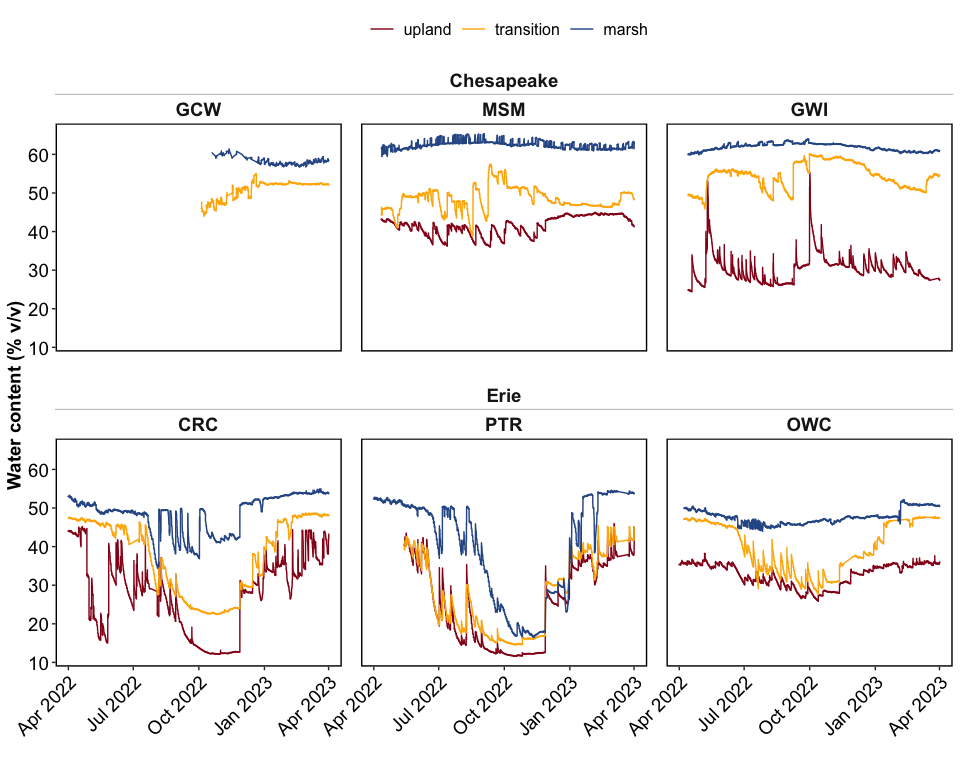
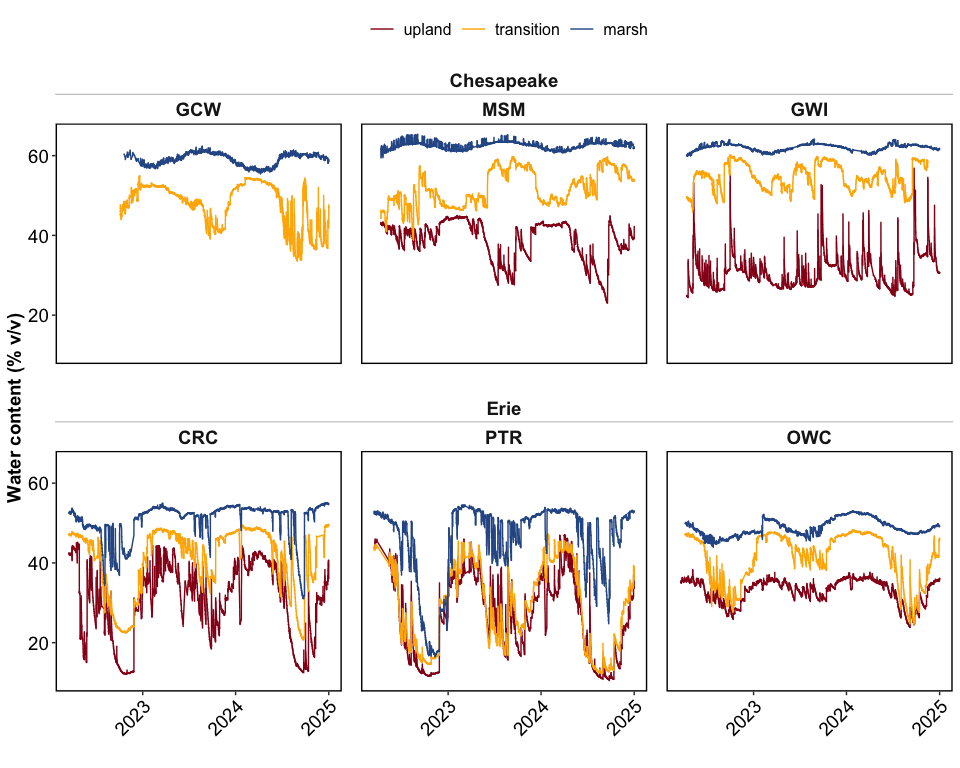
update sensor graphs

diff --git a/3-reports/manuscript_figures.md b/3-reports/manuscript_figures.md
@@ -147,72 +147,96 @@ available on Google Drive (access needed).
 
 ### Soil water content for 2022-23
 
+    ## [1] "2022-24"
+
 ![](manuscript_figures_files/figure-gfm/gg_vwc-1.png)<!-- -->
+
+    ## [1] "Jan-Dec 2023"
+
+![](manuscript_figures_files/figure-gfm/gg_vwc-2.png)<!-- -->
 
 ### Summarized soil water content
 
 | region     | site | transect   | mean_vwc | sd_vwc | median_vwc |
 |:-----------|:-----|:-----------|---------:|-------:|-----------:|
-| Erie       | CRC  | upland     |    27.31 |   9.90 |      28.53 |
-| Erie       | CRC  | transition |    37.15 |   9.74 |      40.66 |
-| Erie       | CRC  | marsh      |    48.33 |   4.94 |      49.43 |
-| Erie       | PTR  | upland     |    24.81 |  10.44 |      25.35 |
-| Erie       | PTR  | transition |    27.49 |   9.97 |      27.90 |
-| Erie       | PTR  | marsh      |    39.09 |  13.14 |      43.38 |
-| Erie       | OWC  | upland     |    32.74 |   2.96 |      33.66 |
-| Erie       | OWC  | transition |    39.47 |   6.48 |      38.67 |
-| Erie       | OWC  | marsh      |    47.66 |   1.86 |      47.53 |
-| Chesapeake | GCW  | transition |    50.89 |   2.57 |      52.22 |
-| Chesapeake | GCW  | marsh      |    57.96 |   0.79 |      57.79 |
-| Chesapeake | MSM  | upland     |    41.57 |   2.40 |      41.65 |
-| Chesapeake | MSM  | transition |    48.43 |   2.98 |      47.93 |
-| Chesapeake | MSM  | marsh      |    62.49 |   1.01 |      62.46 |
-| Chesapeake | GWI  | upland     |    30.41 |   3.67 |      30.12 |
-| Chesapeake | GWI  | transition |    54.47 |   3.36 |      54.77 |
-| Chesapeake | GWI  | marsh      |    61.86 |   0.94 |      62.06 |
+| Erie       | CRC  | upland     |    33.14 |   5.82 |      33.97 |
+| Erie       | CRC  | transition |    44.25 |   4.18 |      46.05 |
+| Erie       | CRC  | marsh      |    52.61 |   1.79 |      53.07 |
+| Erie       | PTR  | upland     |    29.79 |   6.92 |      30.72 |
+| Erie       | PTR  | transition |    31.53 |   7.58 |      31.48 |
+| Erie       | PTR  | marsh      |    49.54 |   4.25 |      51.10 |
+| Erie       | OWC  | upland     |    34.01 |   1.59 |      34.34 |
+| Erie       | OWC  | transition |    44.08 |   2.79 |      44.57 |
+| Erie       | OWC  | marsh      |    49.25 |   1.78 |      49.16 |
+| Chesapeake | GCW  | transition |    48.29 |   3.90 |      49.05 |
+| Chesapeake | GCW  | marsh      |    59.52 |   1.32 |      59.61 |
+| Chesapeake | MSM  | upland     |    38.46 |   5.47 |      40.50 |
+| Chesapeake | MSM  | transition |    52.90 |   4.65 |      54.83 |
+| Chesapeake | MSM  | marsh      |    62.78 |   0.79 |      62.88 |
+| Chesapeake | GWI  | upland     |    30.26 |   3.36 |      29.50 |
+| Chesapeake | GWI  | transition |    55.01 |   2.97 |      54.82 |
+| Chesapeake | GWI  | marsh      |    61.97 |   0.89 |      62.17 |
 
 ### Water level in soil
 
 When water level is positive (above surface), it means the soil is
 flooded.
 
+    ## [1] "2022-24"
+
 ![](manuscript_figures_files/figure-gfm/gg_water_level-1.png)<!-- -->
+
+    ## [1] "Jan-Dec 2023"
+
+![](manuscript_figures_files/figure-gfm/gg_water_level-2.png)<!-- -->
 
 ### Water table summary
 
+    ## [1] "Jan-Dec 2023"
+
 | region     | site | transect   | mean_wl | sd_wl | median_wl | min_wl | max_wl |
 |:-----------|:-----|:-----------|--------:|------:|----------:|-------:|-------:|
-| Chesapeake | MSM  | upland     |   -0.19 |  0.15 |     -0.13 |  -0.62 |   0.01 |
-| Chesapeake | MSM  | transition |   -0.11 |  0.07 |     -0.10 |  -0.79 |   0.23 |
-| Chesapeake | MSM  | marsh      |   -0.11 |  0.09 |     -0.10 |  -0.61 |   0.34 |
-| Chesapeake | GWI  | upland     |   -0.49 |  0.15 |     -0.47 |  -1.00 |   0.03 |
-| Chesapeake | GWI  | transition |   -0.22 |  0.18 |     -0.14 |  -0.93 |   0.38 |
-| Chesapeake | GWI  | marsh      |   -0.06 |  0.10 |     -0.03 |  -0.42 |   0.54 |
-| Erie       | CRC  | upland     |   -2.49 |  1.52 |     -2.79 |  -4.91 |  -0.04 |
-| Erie       | CRC  | transition |   -0.63 |  0.52 |     -0.43 |  -1.38 |   0.42 |
-| Erie       | CRC  | marsh      |   -0.12 |  0.17 |     -0.03 |  -0.38 |   0.66 |
-| Erie       | PTR  | upland     |   -3.06 |  1.16 |     -3.36 |  -5.07 |  -0.29 |
-| Erie       | PTR  | transition |   -1.26 |  0.69 |     -1.11 |  -2.55 |  -0.02 |
-| Erie       | PTR  | marsh      |   -0.46 |  0.33 |     -0.29 |  -0.97 |   0.27 |
-| Erie       | OWC  | marsh      |    0.03 |  0.14 |      0.00 |  -0.36 |   0.69 |
+| Chesapeake | GCW  | upland     |   -4.08 |  0.25 |     -4.11 |  -4.36 |  -2.80 |
+| Chesapeake | GCW  | transition |   -0.46 |  0.06 |     -0.45 |  -1.17 |  -0.07 |
+| Chesapeake | GCW  | marsh      |   -0.09 |  0.07 |     -0.10 |  -0.85 |   0.44 |
+| Chesapeake | MSM  | upland     |   -0.29 |  0.22 |     -0.20 |  -0.63 |   0.06 |
+| Chesapeake | MSM  | transition |   -0.08 |  0.05 |     -0.08 |  -0.78 |   0.33 |
+| Chesapeake | MSM  | marsh      |   -0.08 |  0.09 |     -0.08 |  -0.61 |   0.43 |
+| Chesapeake | GWI  | upland     |   -0.50 |  0.14 |     -0.49 |  -1.00 |   0.02 |
+| Chesapeake | GWI  | transition |   -0.15 |  0.08 |     -0.13 |  -0.55 |   0.36 |
+| Chesapeake | GWI  | marsh      |   -0.04 |  0.07 |     -0.02 |  -0.40 |   0.55 |
+| Erie       | CRC  | upland     |   -3.06 |  1.07 |     -3.15 |  -4.91 |  -0.50 |
+| Erie       | CRC  | transition |   -0.21 |  0.13 |     -0.19 |  -1.34 |   0.42 |
+| Erie       | CRC  | marsh      |   -0.02 |  0.10 |      0.01 |  -0.38 |   0.66 |
+| Erie       | PTR  | upland     |   -2.19 |  1.33 |     -1.97 |  -4.36 |  -0.29 |
+| Erie       | PTR  | transition |   -0.73 |  0.47 |     -0.64 |  -2.08 |  -0.02 |
+| Erie       | PTR  | marsh      |   -0.28 |  0.10 |     -0.26 |  -0.97 |   0.27 |
+| Erie       | OWC  | transition |    0.02 |  0.05 |      0.00 |  -0.03 |   0.21 |
+| Erie       | OWC  | marsh      |   -0.03 |  0.12 |     -0.06 |  -0.35 |   0.88 |
 
 ### Calculating time flooded (% of the year)
 
+    ## [1] "Jan-Dec 2023"
+
 | region     | site | transect   | percent_flooded |
 |:-----------|:-----|:-----------|----------------:|
-| Chesapeake | MSM  | upland     |            0.06 |
-| Chesapeake | MSM  | transition |            2.64 |
-| Chesapeake | MSM  | marsh      |            8.24 |
+| Chesapeake | GCW  | upland     |            0.00 |
+| Chesapeake | GCW  | transition |            0.00 |
+| Chesapeake | GCW  | marsh      |            7.77 |
+| Chesapeake | MSM  | upland     |            1.38 |
+| Chesapeake | MSM  | transition |            3.90 |
+| Chesapeake | MSM  | marsh      |           12.97 |
 | Chesapeake | GWI  | upland     |            0.02 |
-| Chesapeake | GWI  | transition |            1.04 |
-| Chesapeake | GWI  | marsh      |            8.34 |
+| Chesapeake | GWI  | transition |            0.88 |
+| Chesapeake | GWI  | marsh      |            8.08 |
 | Erie       | CRC  | upland     |            0.00 |
-| Erie       | CRC  | transition |            0.73 |
-| Erie       | CRC  | marsh      |           32.59 |
+| Erie       | CRC  | transition |            0.93 |
+| Erie       | CRC  | marsh      |           57.96 |
 | Erie       | PTR  | upland     |            0.00 |
 | Erie       | PTR  | transition |            0.00 |
-| Erie       | PTR  | marsh      |            0.44 |
-| Erie       | OWC  | marsh      |           51.03 |
+| Erie       | PTR  | marsh      |            0.19 |
+| Erie       | OWC  | transition |           52.17 |
+| Erie       | OWC  | marsh      |           25.68 |
 
 ------------------------------------------------------------------------
 
@@ -223,11 +247,11 @@ flooded.
 Session Info
 </summary>
 
-Date run: 2025-09-08
+Date run: 2025-09-14
 
     ## R version 4.5.0 (2025-04-11)
     ## Platform: aarch64-apple-darwin20
-    ## Running under: macOS Sequoia 15.6
+    ## Running under: macOS Sequoia 15.6.1
     ## 
     ## Matrix products: default
     ## BLAS:   /Library/Frameworks/R.framework/Versions/4.5-arm64/Resources/lib/libRblas.0.dylib 
